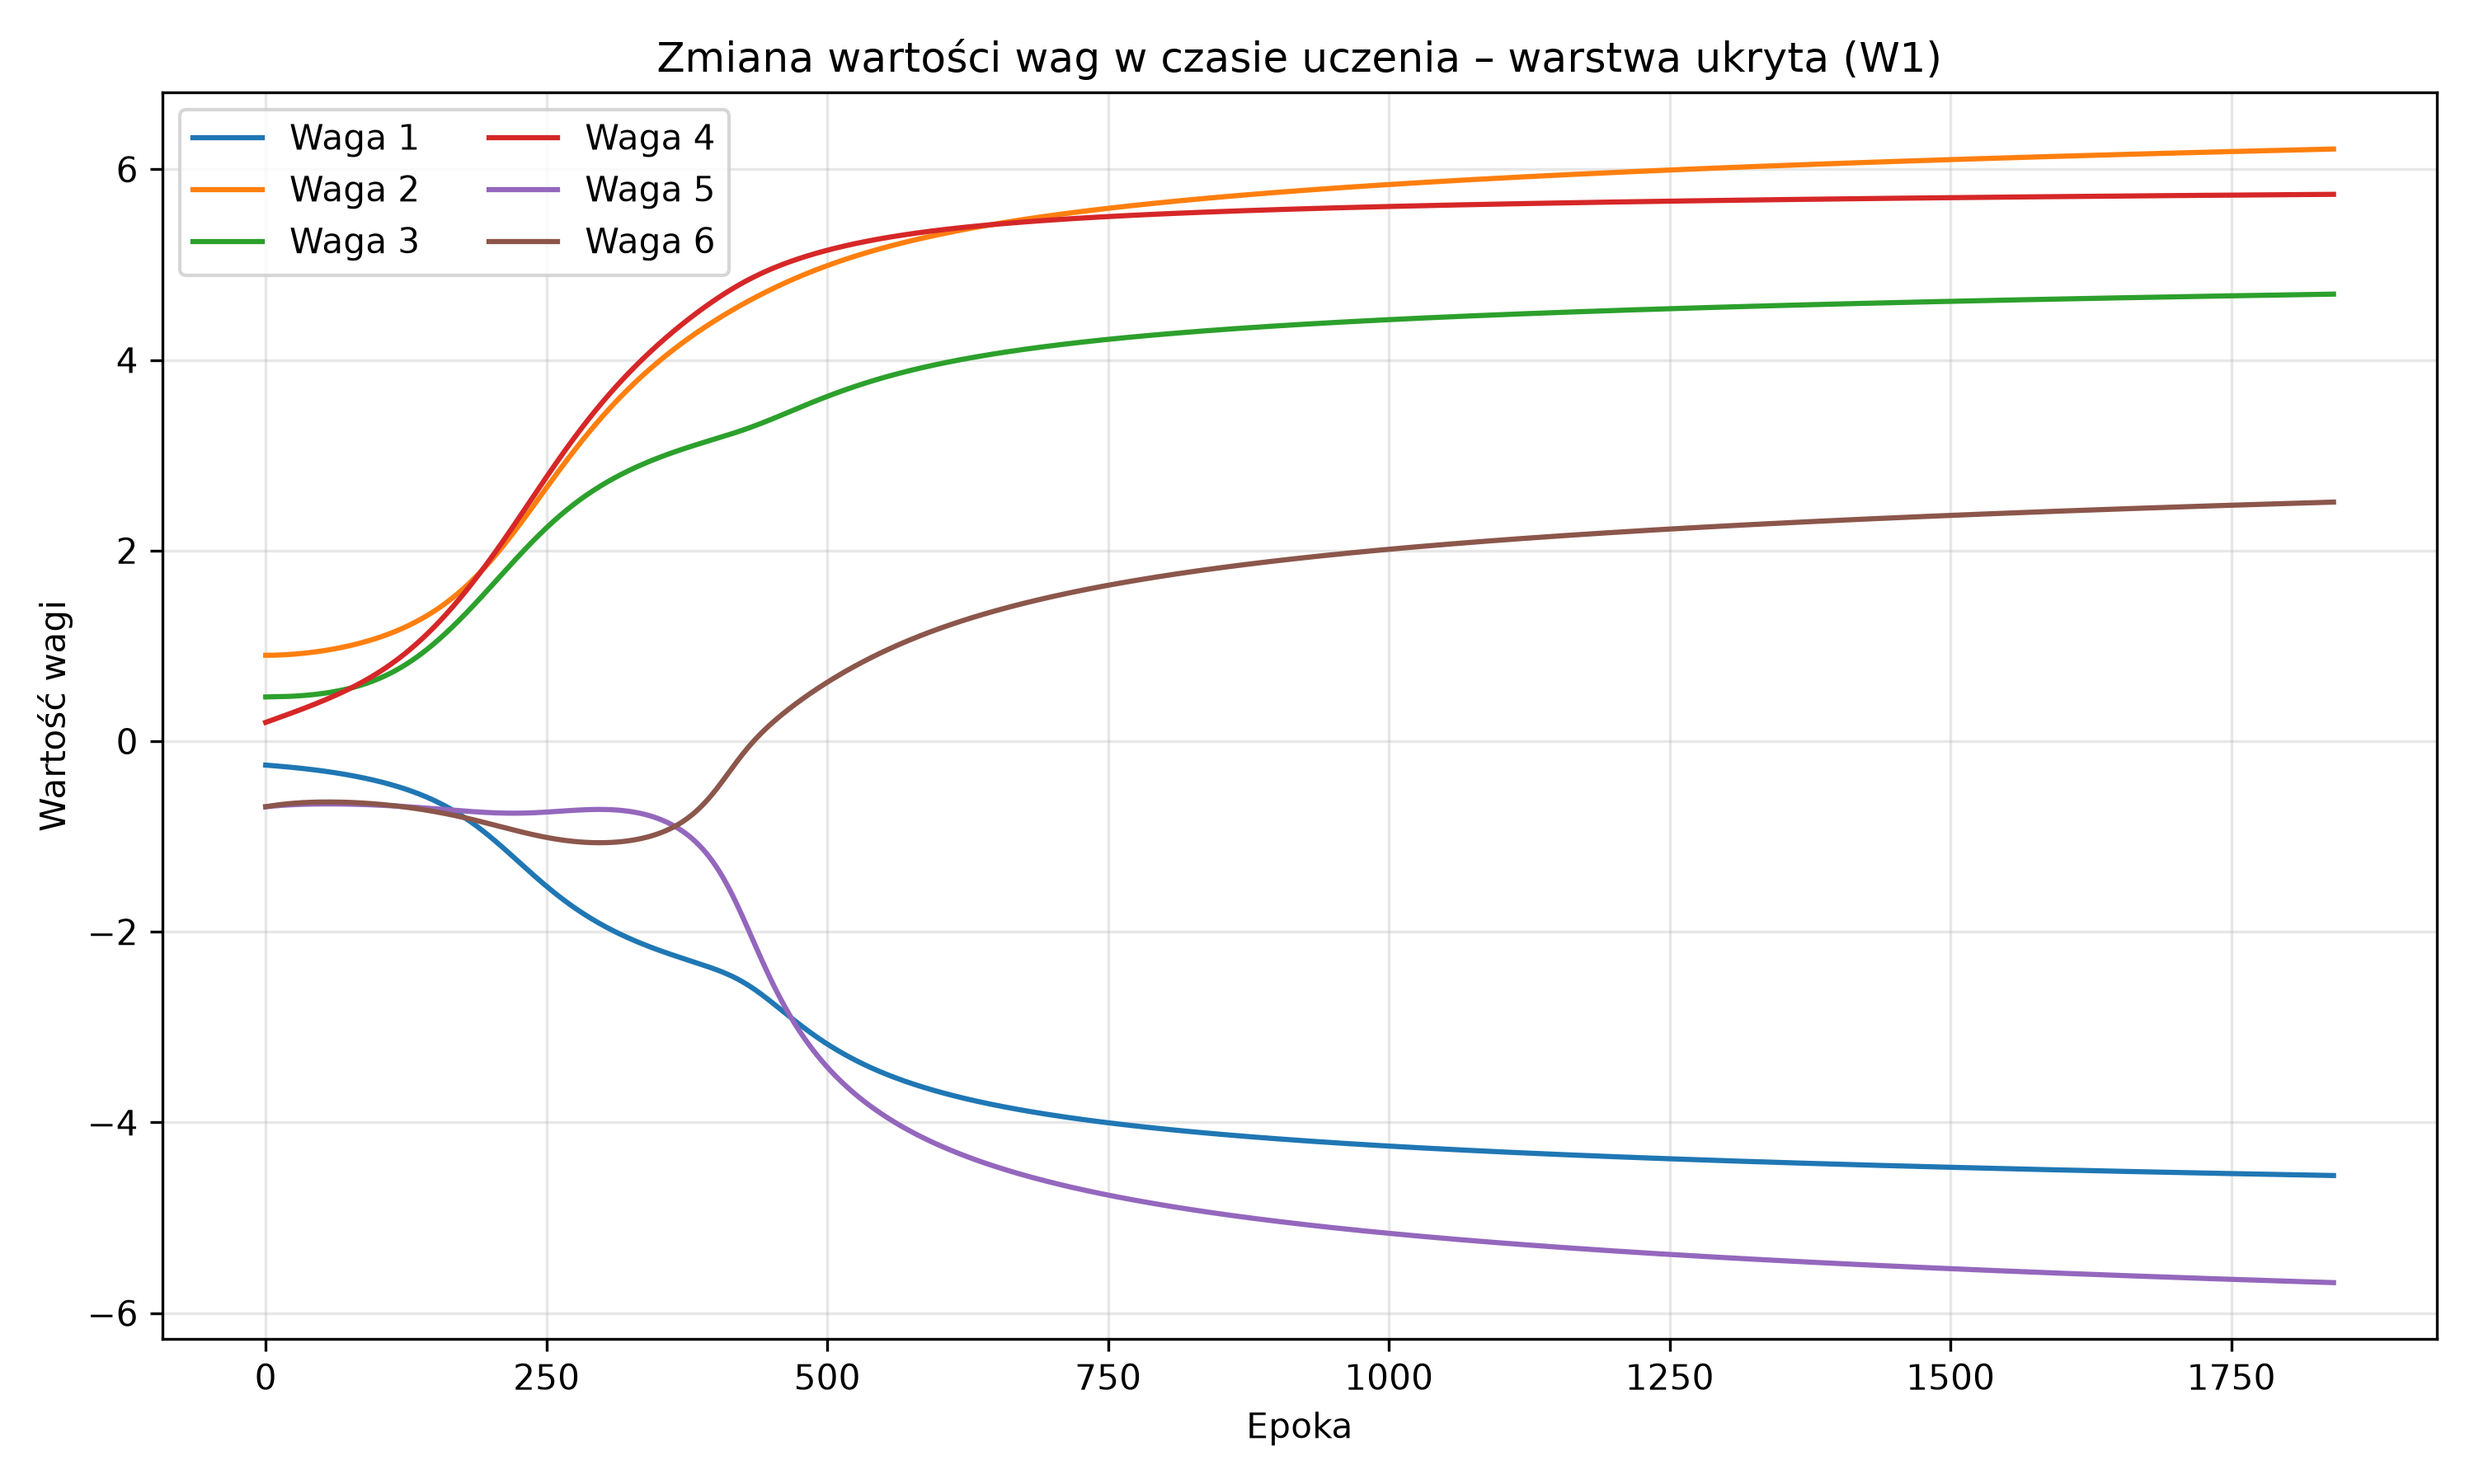
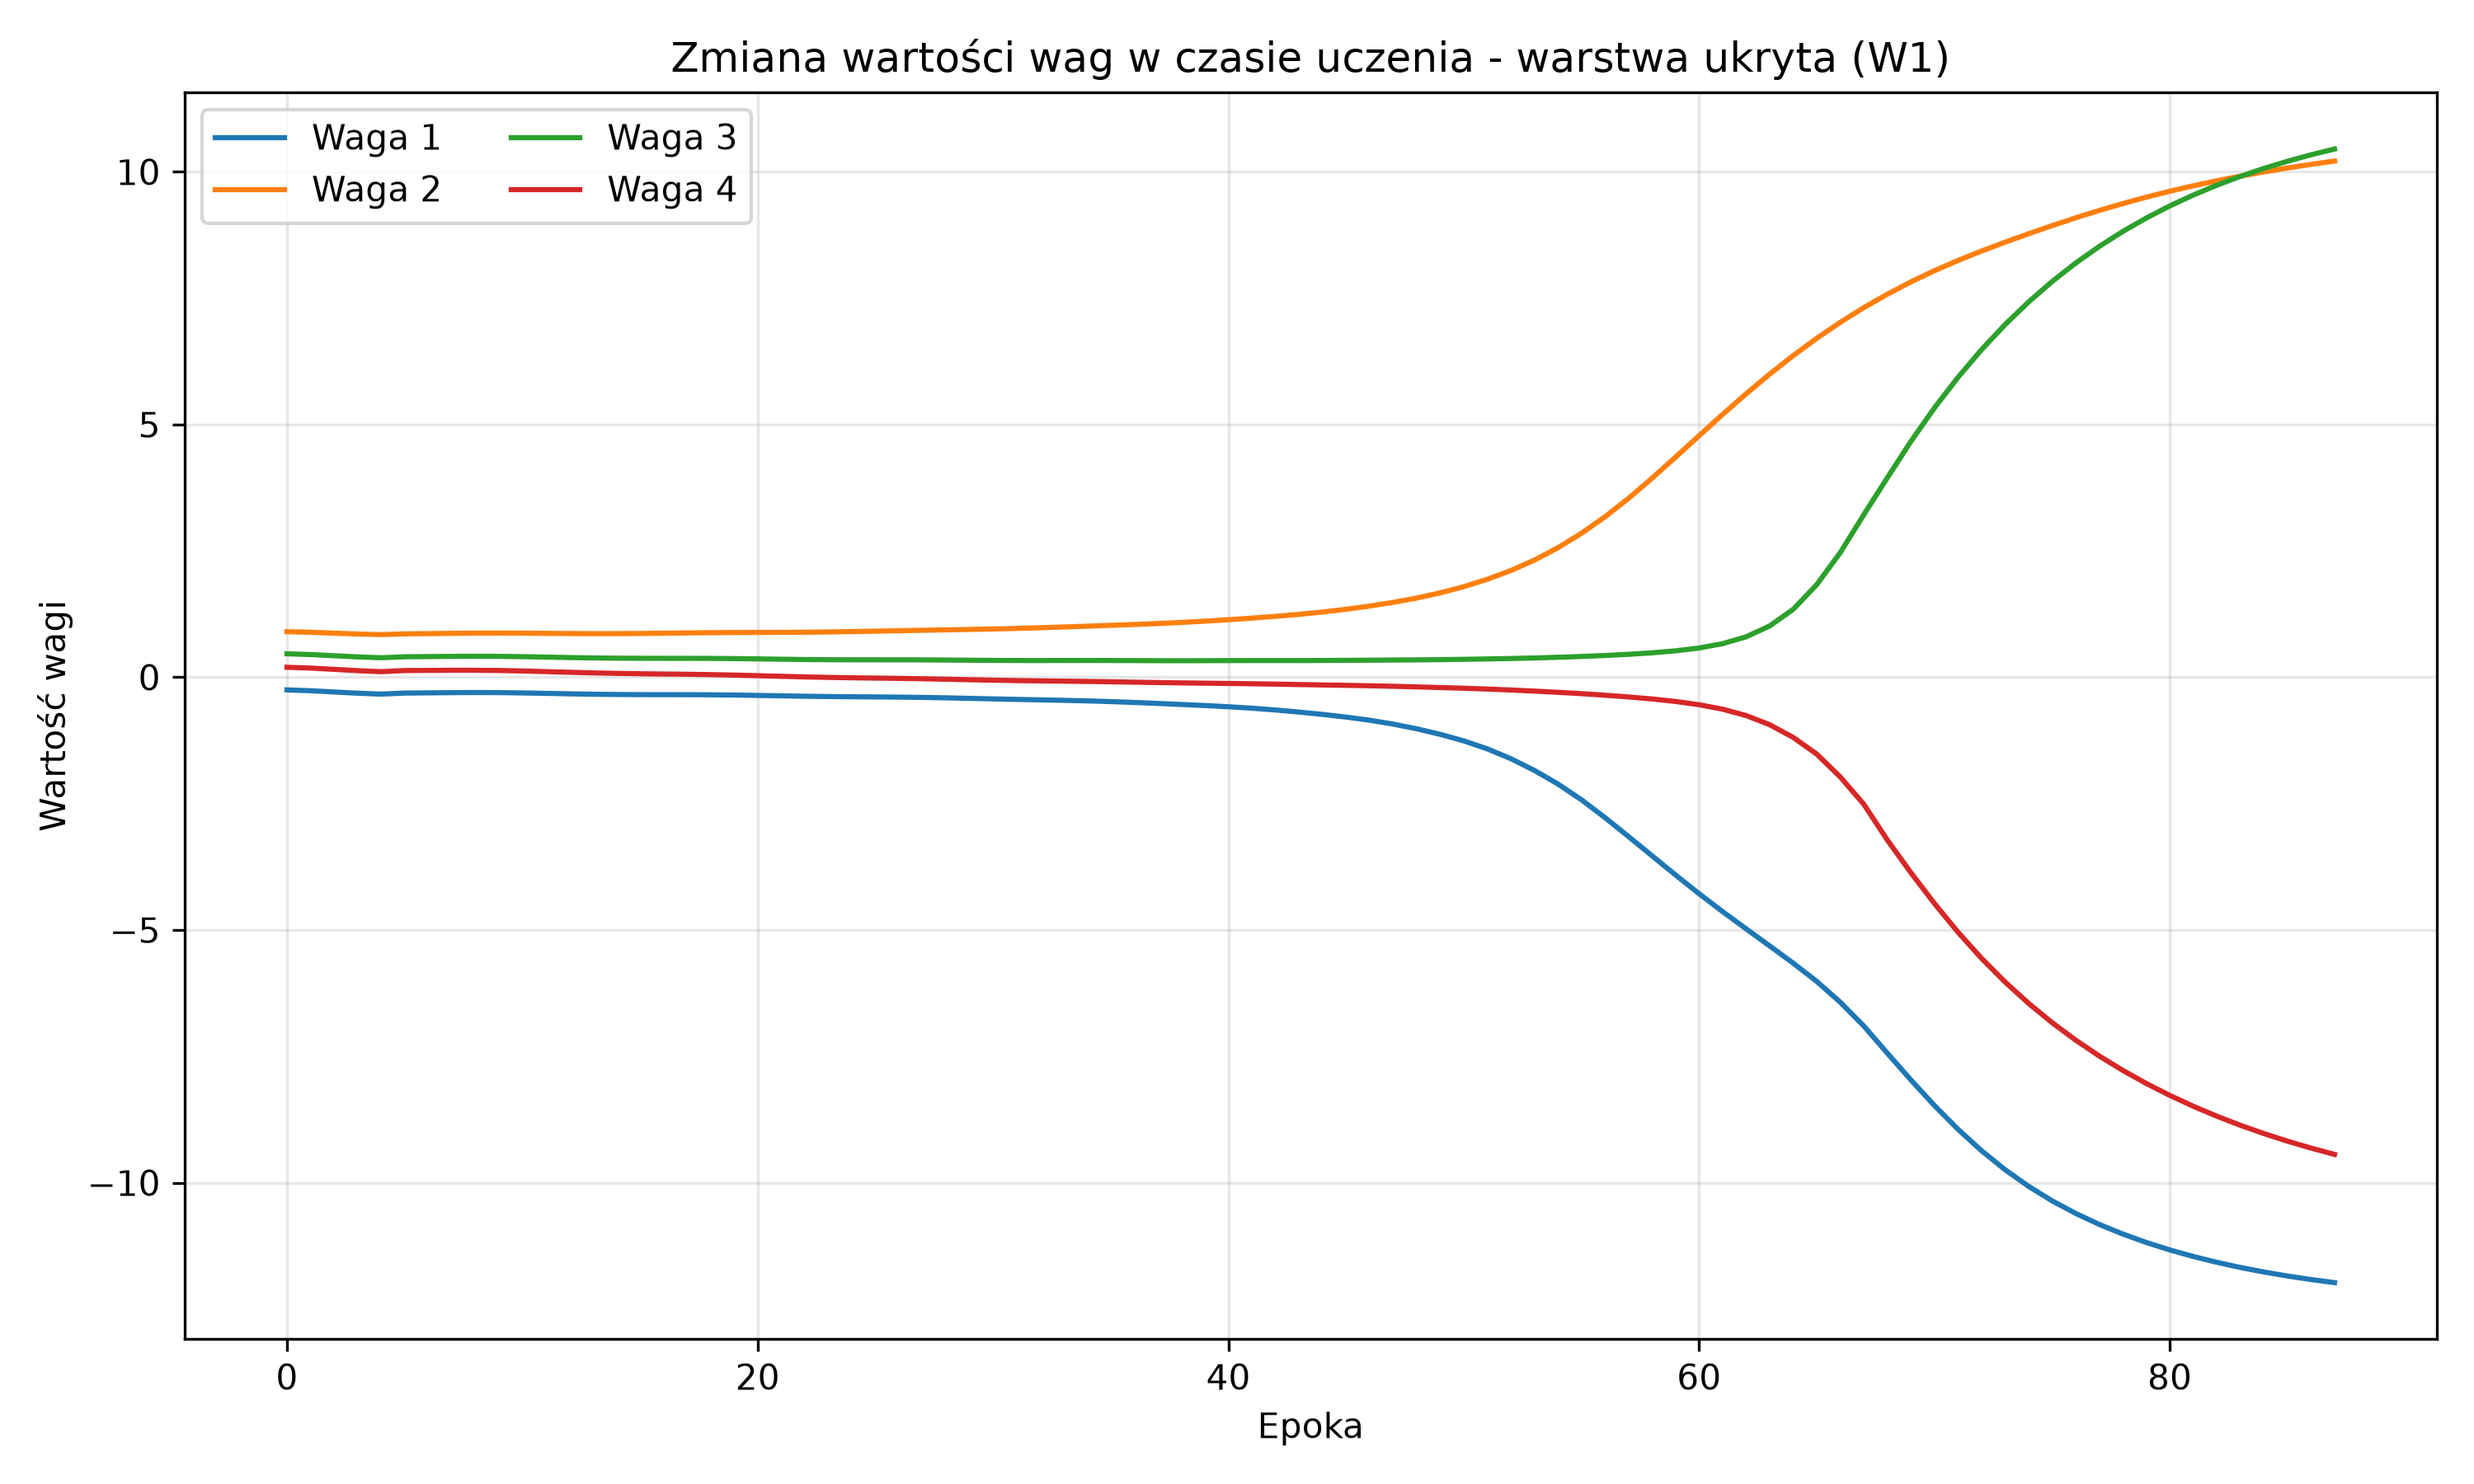
implementacja na 4.0

diff --git a/network.py b/network.py
@@ -14,10 +14,18 @@ class NeuralNetwork1Hidden:
         self.hidden_size = hidden_size
         self.output_size = output_size
         np.random.seed(seed)
+
+        # wagi i biasy inicjalizowane losowo w zakresie [-1, 1]
         self.W_1 = np.random.uniform(-1.0, 1.0, size=(hidden_size, input_size))
         self.b_1 = np.zeros((hidden_size, 1))
         self.W_2 = np.random.uniform(-1.0, 1.0, size=(output_size, hidden_size))
         self.b_2 = np.zeros((output_size, 1))
+
+        # macierze prędkości (momentum) zainicjalizowane zerami
+        self.vW_1 = np.zeros_like(self.W_1)
+        self.vb_1 = np.zeros_like(self.b_1)
+        self.vW_2 = np.zeros_like(self.W_2)
+        self.vb_2 = np.zeros_like(self.b_2)
 
 
     def forward(self, X):
@@ -55,13 +63,37 @@ class NeuralNetwork1Hidden:
         return grads, errors
 
 
-    def update(self, grads, learning_rate):
-        self.W_2 += learning_rate * grads["dW_2"]
-        self.b_2 += learning_rate * grads["db_2"]
-        self.W_1 += learning_rate * grads["dW_1"]
-        self.b_1 += learning_rate * grads["db_1"]
+    def update(self, grads, learning_rate, momentum=0.9):
+        # obliczenie nowej prędkości
+        self.vW_2 = momentum * self.vW_2 + learning_rate * grads["dW_2"]
+        self.vb_2 = momentum * self.vb_2 + learning_rate * grads["db_2"]
+        self.vW_1 = momentum * self.vW_1 + learning_rate * grads["dW_1"]
+        self.vb_1 = momentum * self.vb_1 + learning_rate * grads["db_1"]
 
-    def train(self, X, Y, learning_rate, epochs, target_error=1e-4):
+        # aktualizacja wag i biasów o wyliczoną prędkość
+        self.W_2 += self.vW_2
+        self.b_2 += self.vb_2
+        self.W_1 += self.vW_1
+        self.b_1 += self.vb_1
+
+    def train(
+        self,
+        X,
+        Y,
+        learning_rate,
+        epochs,
+        batch_size=None,  # None oznacza cały zbiór (Full Batch), np. 4 dla XOR
+        target_error=1e-4,
+        momentum=0.9,
+        adaptive_lr=True,
+        lr_inc=1.05,
+        lr_dec=0.7,
+        max_error_ratio=1.04,
+    ):
+        m = X.shape[1]
+        if batch_size is None or batch_size > m:
+            batch_size = m
+
         history = {
             "mse_out_total": [],
             "mse_out_samples": [],
@@ -70,29 +102,28 @@ class NeuralNetwork1Hidden:
             "class_errors": [],
             "w1": [],
             "w2": [],
+            "lr": [],
         }
 
         stopped_epoch = epochs
+        prev_mse = None
 
         for epoch in range(1, epochs + 1):
+            # 1. Ewaluacja na całym zbiorze X przed krokiem (do metryk, wykresów i warunku stopu)
             A_2, cache = self.forward(X)
-            grads, errors = self.backward(X, Y, cache)
+            _, errors = self.backward(X, Y, cache)
 
-            # Metryki warstwy wyjściowej
             sq_err_out = errors["E_2"] ** 2
             mse_out_total = float(np.mean(sq_err_out))
             mse_out_samples = sq_err_out.flatten()
 
-            # Metryki warstwy ukrytej
             sq_err_hid = errors["E1"] ** 2
             mse_hid_total = float(np.mean(sq_err_hid))
             mse_hid_samples = np.mean(sq_err_hid, axis=0)
 
-            # Błąd klasyfikacji 0-1 (próg 0.5)
             predictions = (A_2 >= 0.5).astype(float)
             class_error = int(np.sum(predictions != Y))
 
-            # Zapis historii z bieżącej epoki
             history["mse_out_total"].append(mse_out_total)
             history["mse_out_samples"].append(mse_out_samples)
             history["mse_hid_total"].append(mse_hid_total)
@@ -100,13 +131,48 @@ class NeuralNetwork1Hidden:
             history["class_errors"].append(class_error)
             history["w1"].append(self.W_1.flatten().copy())
             history["w2"].append(self.W_2.flatten().copy())
+            history["lr"].append(learning_rate)
 
-            # Warunek stopu - przerywamy przed aktualizacją, jeśli błąd jest minimalny
             if mse_out_total <= target_error:
                 stopped_epoch = epoch
                 break
 
-            self.update(grads, learning_rate)
+            # 2. Adaptacja learning_rate na podstawie pełnego błędu epoki
+            if adaptive_lr and prev_mse is not None:
+                if mse_out_total > max_error_ratio * prev_mse:
+                    self.W_1, self.b_1 = prev_params["W_1"], prev_params["b_1"]
+                    self.W_2, self.b_2 = prev_params["W_2"], prev_params["b_2"]
+                    self.vW_1.fill(0.0)
+                    self.vb_1.fill(0.0)
+                    self.vW_2.fill(0.0)
+                    self.vb_2.fill(0.0)
+                    learning_rate *= lr_dec
+                elif mse_out_total < prev_mse:
+                    learning_rate *= lr_inc
+
+            prev_mse = mse_out_total
+            prev_params = {
+                "W_1": self.W_1.copy(),
+                "b_1": self.b_1.copy(),
+                "W_2": self.W_2.copy(),
+                "b_2": self.b_2.copy(),
+            }
+
+            # 3. Właściwe uczenie w paczkach (mini-batch) z losowym tasowaniem
+            permutation = np.random.permutation(m)
+            X_shuffled = X[:, permutation]
+            Y_shuffled = Y[:, permutation]
+
+            for i in range(0, m, batch_size):
+                X_batch = X_shuffled[:, i : i + batch_size]
+                Y_batch = Y_shuffled[:, i : i + batch_size]
+
+                _, batch_cache = self.forward(X_batch)
+                grads, _ = self.backward(X_batch, Y_batch, batch_cache)
+
+                # Uśrednienie gradientu przez aktualny rozmiar paczki (lub przez m dla spójnej skali)
+                scale = X_batch.shape[1] / m
+                self.update(grads, learning_rate * scale, momentum=momentum)
 
         for key in history:
             history[key] = np.array(history[key])

diff --git a/main.py b/main.py
@@ -3,6 +3,7 @@ from network import NeuralNetwork1Hidden
 from plots import (
     plot_classification_error,
     plot_mse,
+    plot_learning_rate,
     plot_weights,
 )
 
@@ -18,7 +19,7 @@ if __name__ == "__main__":
     X, Y = get_xor_data()
 
     # Hiperparametry do eksperymentów w sprawozdaniu
-    HIDDEN_SIZE = 3
+    HIDDEN_SIZE = 2
     LEARNING_RATE = 0.5
     MAX_EPOCHS = 10000
     TARGET_ERROR = 0.001
@@ -32,12 +33,18 @@ if __name__ == "__main__":
     )
 
     history, final_epoch = nn.train(
-        X=X,
-        Y=Y,
-        learning_rate=LEARNING_RATE,
-        epochs=MAX_EPOCHS,
-        target_error=TARGET_ERROR,
-    )
+            X,
+            Y,
+            learning_rate=LEARNING_RATE,
+            epochs=MAX_EPOCHS,
+            batch_size=None,  # None oznacza cały zbiór (Full Batch), np. 4 dla XOR
+            target_error=1e-4,
+            momentum=0.9,
+            adaptive_lr=True,
+            lr_inc=1.05,
+            lr_dec=0.7,
+            max_error_ratio=1.04,
+        )
 
     # Podsumowanie wyników w konsoli
     final_output, _ = nn.forward(X)
@@ -79,4 +86,8 @@ if __name__ == "__main__":
         history["w2"],
         layer_name="warstwa wyjściowa (W2)",
         filename="wagi_wyjsciowa.png",
+    )
+    plot_learning_rate(
+        history["lr"],
+        filename="learning_rate.png",
     )

diff --git a/plots.py b/plots.py
@@ -1,4 +1,5 @@
 import matplotlib.pyplot as plt
+import numpy as np
 
 
 def plot_mse(mse_total, mse_samples, layer_name, filename):
@@ -51,11 +52,25 @@ def plot_weights(weights_history, layer_name, filename):
     for i in range(num_weights):
         plt.plot(weights_history[:, i], label=f"Waga {i + 1}")
 
-    plt.title(f"Zmiana wartości wag w czasie uczenia – {layer_name}")
+    plt.title(f"Zmiana wartości wag w czasie uczenia - {layer_name}")
     plt.xlabel("Epoka")
     plt.ylabel("Wartość wagi")
     plt.grid(True, alpha=0.3)
     plt.legend(loc="best", ncol=2)
+    plt.tight_layout()
+    plt.savefig(filename, dpi=300)
+    plt.close()
+
+def plot_learning_rate(lr_history, filename="learning_rate.png"):
+    epochs = np.arange(1, len(lr_history) + 1)
+
+    plt.figure(figsize=(8, 5))
+    plt.plot(epochs, lr_history, color="tab:purple", linewidth=2, label="Współczynnik uczenia (alpha)")
+    plt.title("Zmiana adaptacyjnego współczynnika uczenia (learning rate) w czasie")
+    plt.xlabel("Epoka")
+    plt.ylabel("Learning rate (alpha)")
+    plt.grid(True, linestyle="--", alpha=0.6)
+    plt.legend()
     plt.tight_layout()
     plt.savefig(filename, dpi=300)
     plt.close()
